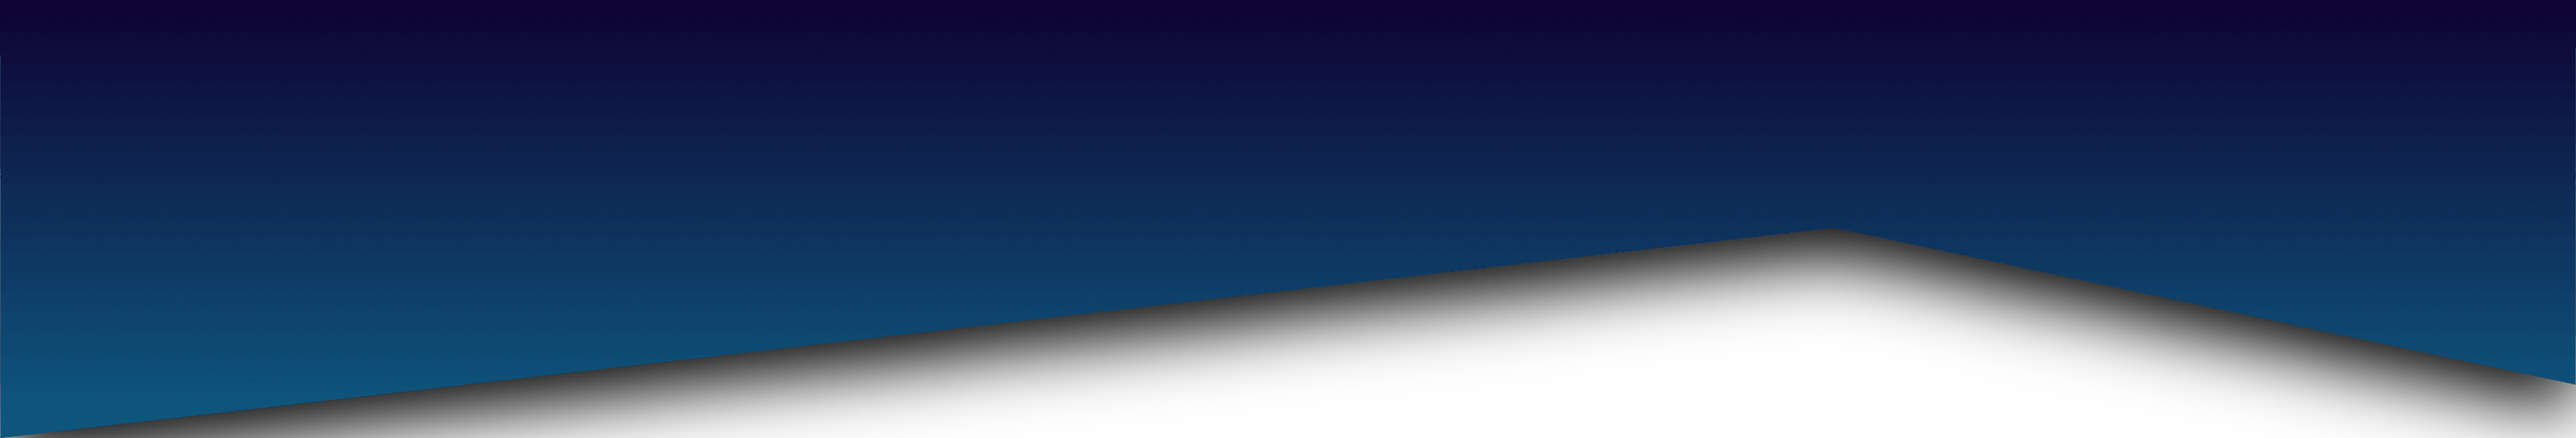
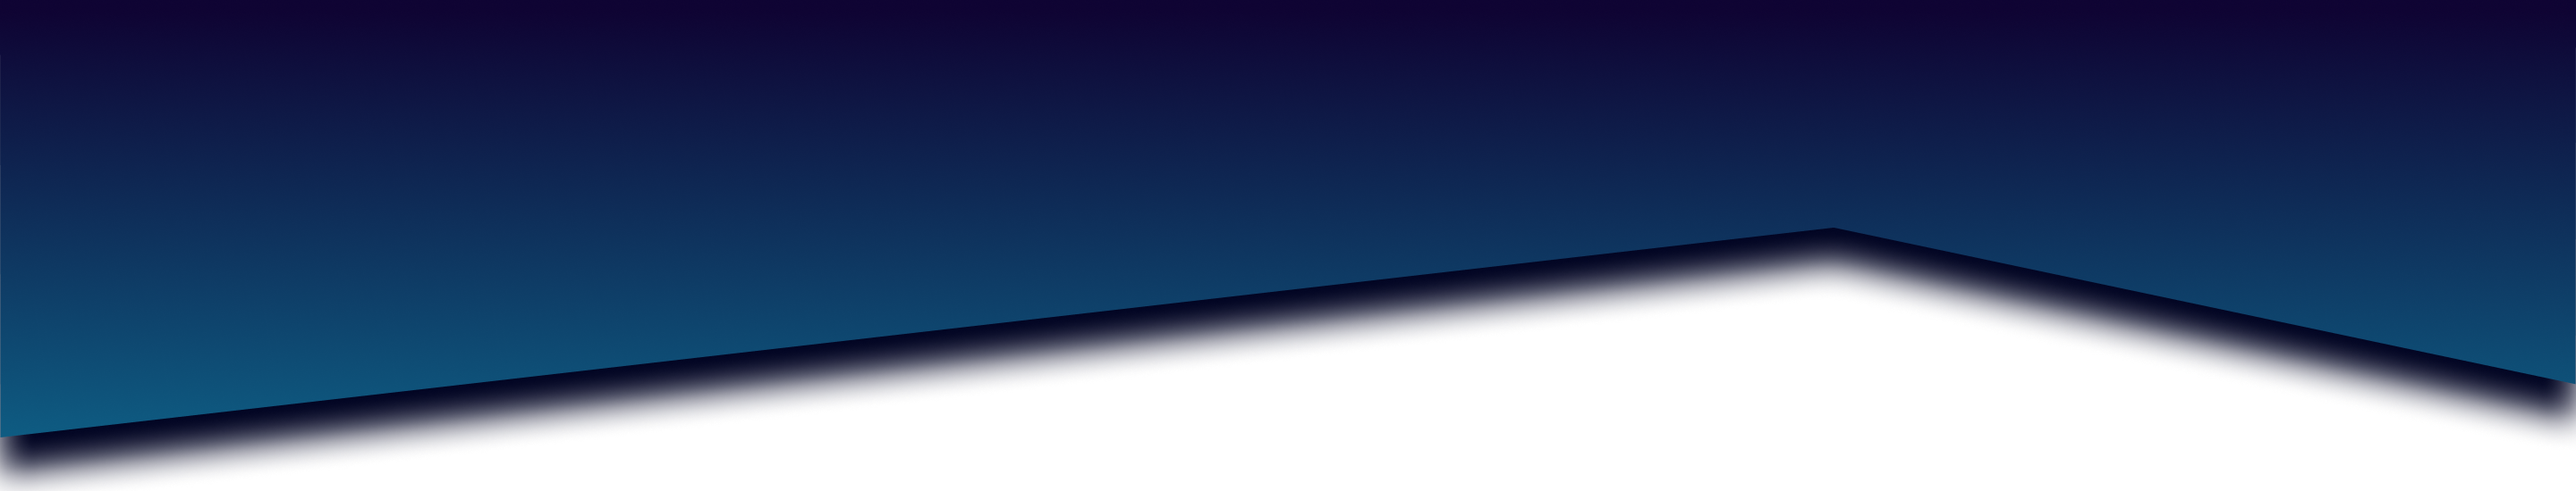
Adds dropshadow to mountains on portfolio

Changed region(s): [[0.0, 0.4592, 1.0, 1.0]]

diff --git a/components/Header.vue b/components/Header.vue
@@ -1,6 +1,6 @@
 <template>
   <div class="relative">
-    <img src="@/assets/png/mountains2.png" class="h-auto w-full shadow-lg" />
+    <img src="@/assets/png/mountains3.png" class="h-auto w-full" />
     <nav class="absolute top-0 w-full flex justify-between items-center text-white px-[10%] h-12 bg-transparent">
       <div class="font-semibold">
         <NuxtLink :to="{ name: 'index' }">Christian Harrison</NuxtLink>
